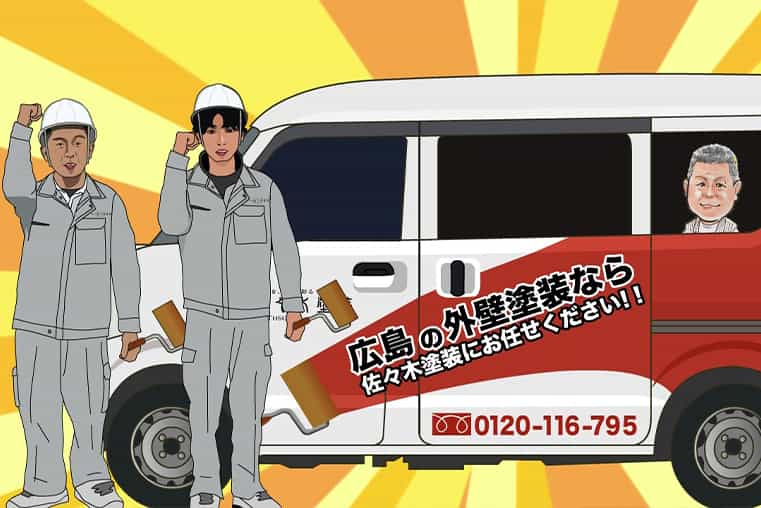
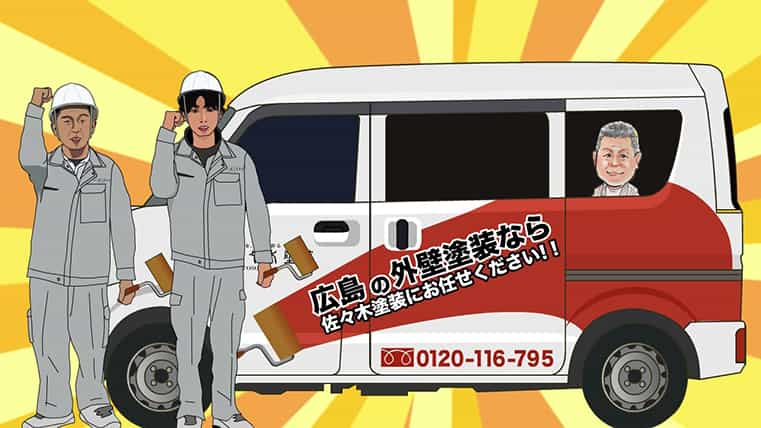
選ばれる3つの理由画像差し替え

diff --git a/src/components/About.js b/src/components/About.js
@@ -44,7 +44,7 @@ const about = () => {
                     </div>
                     
                     <div className="point_r">
-                        <StaticImage src="../images/point_pic01.jpg" width={761} height={508} loading="lazy" alt="" />
+                        <StaticImage src="../images/point_pic01.jpg" width={761} height={428} loading="lazy" alt="" />
                     </div>
                 </div>
             </div>
